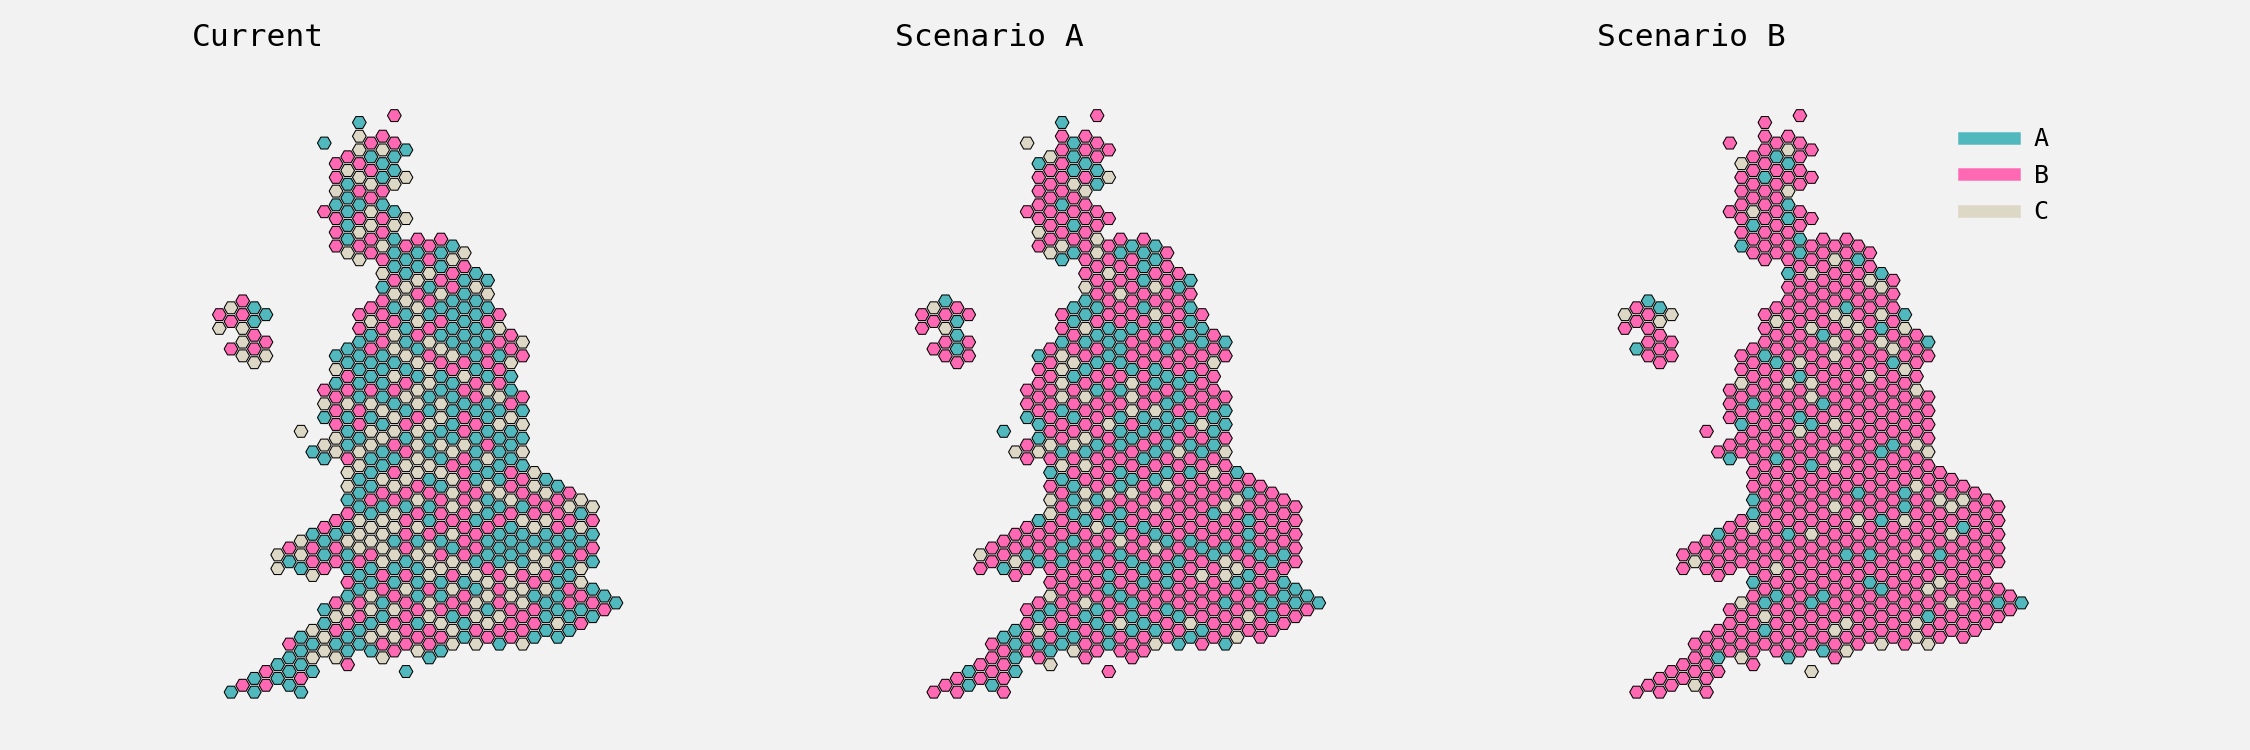
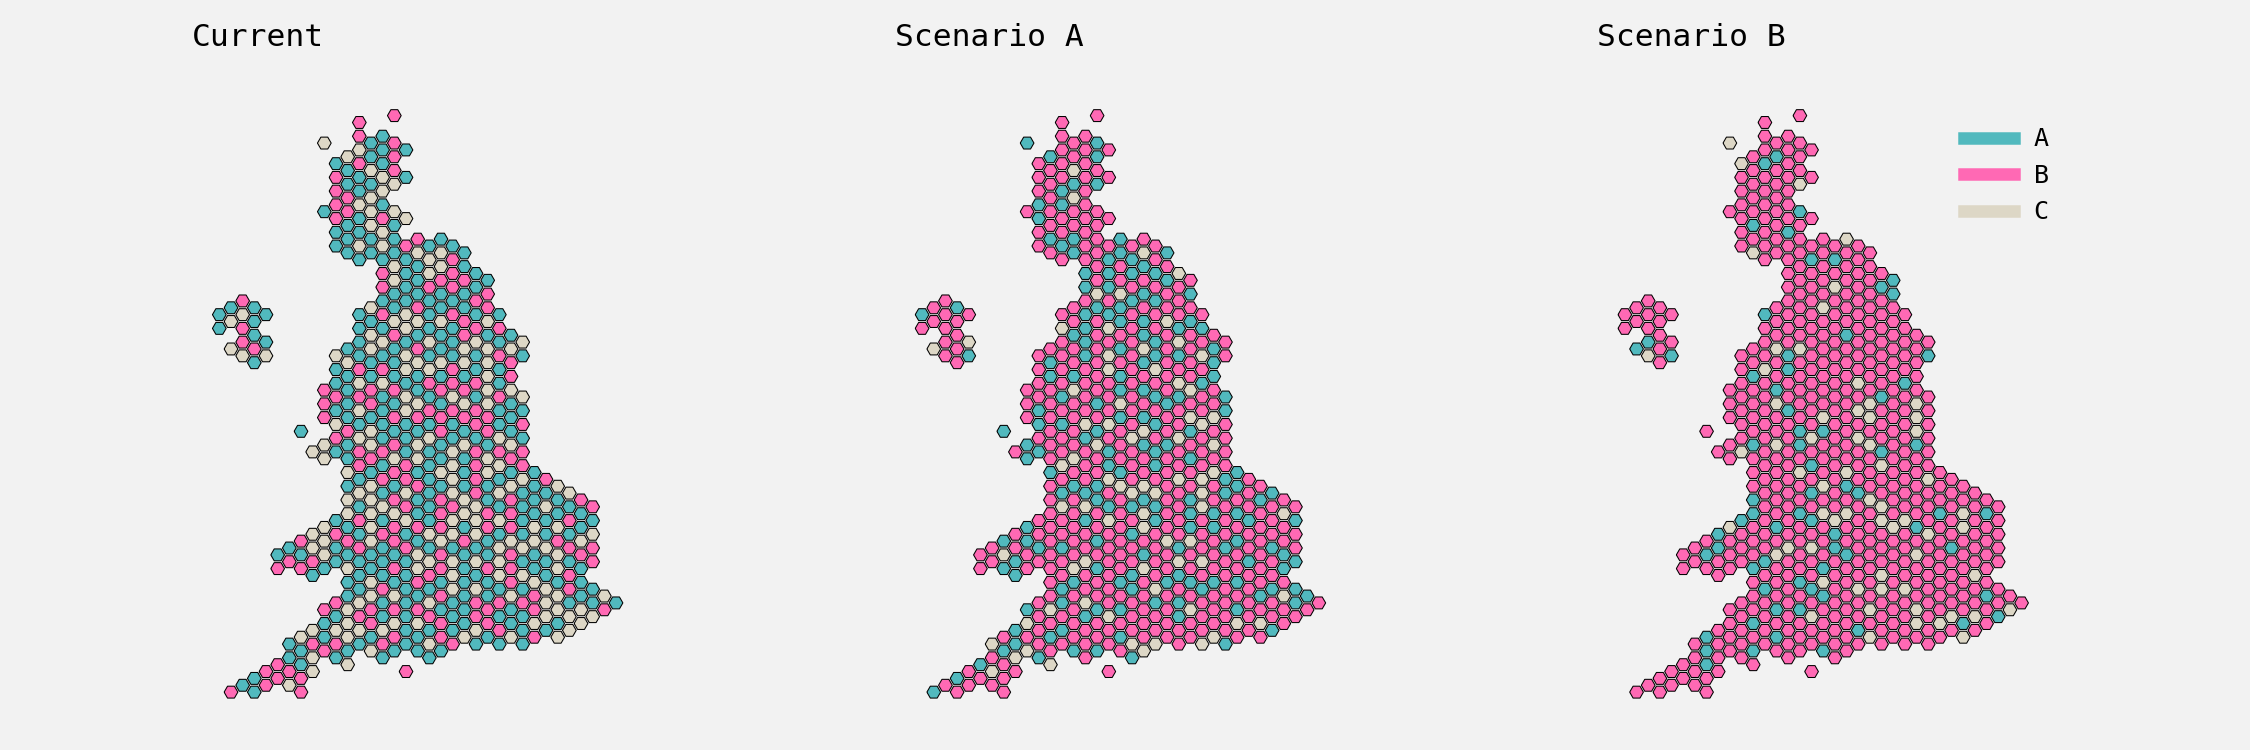
update zorder to ensure rolling avg is top on cat plot
also seeded some random numbers to ensure they're consistent.

diff --git a/plotting_examples/y2024/cat_weight/plot.py b/plotting_examples/y2024/cat_weight/plot.py
@@ -170,7 +170,13 @@ def main() -> mpl.figure.Figure:
         ax_dict = fig.subplot_mosaic(LAYOUT)  # type: ignore[arg-type]
 
         # Plot rolling average
-        ax_dict["main"].plot(df["datestamp"], df["r10"], color=color.PINK_COLOUR, lw=3)
+        ax_dict["main"].plot(
+            df["datestamp"],
+            df["r10"],
+            color=color.PINK_COLOUR,
+            lw=3,
+            zorder=10,
+        )
 
         # Want to ensure that no daily lines are drawn where data has been imputed -
         # will still create the rolling average line here.

diff --git a/plotting_examples/y2022/uk_hexmap/plot.py b/plotting_examples/y2022/uk_hexmap/plot.py
@@ -18,7 +18,7 @@ from matplotlib.colors import ListedColormap
 from plotting_examples import dvc_entry, save_plot_output
 from plotting_examples.y2022 import metadata
 
-random_choice = np.random.Generator(np.random.MT19937()).choice
+random_choice = np.random.Generator(np.random.MT19937(1)).choice
 
 
 def main() -> mpl.figure.Figure:

diff --git a/plotting_examples/y2022/box_plot_w_scatter_distributions/plot.py b/plotting_examples/y2022/box_plot_w_scatter_distributions/plot.py
@@ -22,7 +22,7 @@ import pandas as pd
 from plotting_examples import dvc_entry, save_plot_output
 from plotting_examples.y2022 import metadata
 
-np_rnd = np.random.Generator(np.random.MT19937())
+np_rnd = np.random.Generator(np.random.MT19937(1))
 
 T = TypeVar("T")
 
